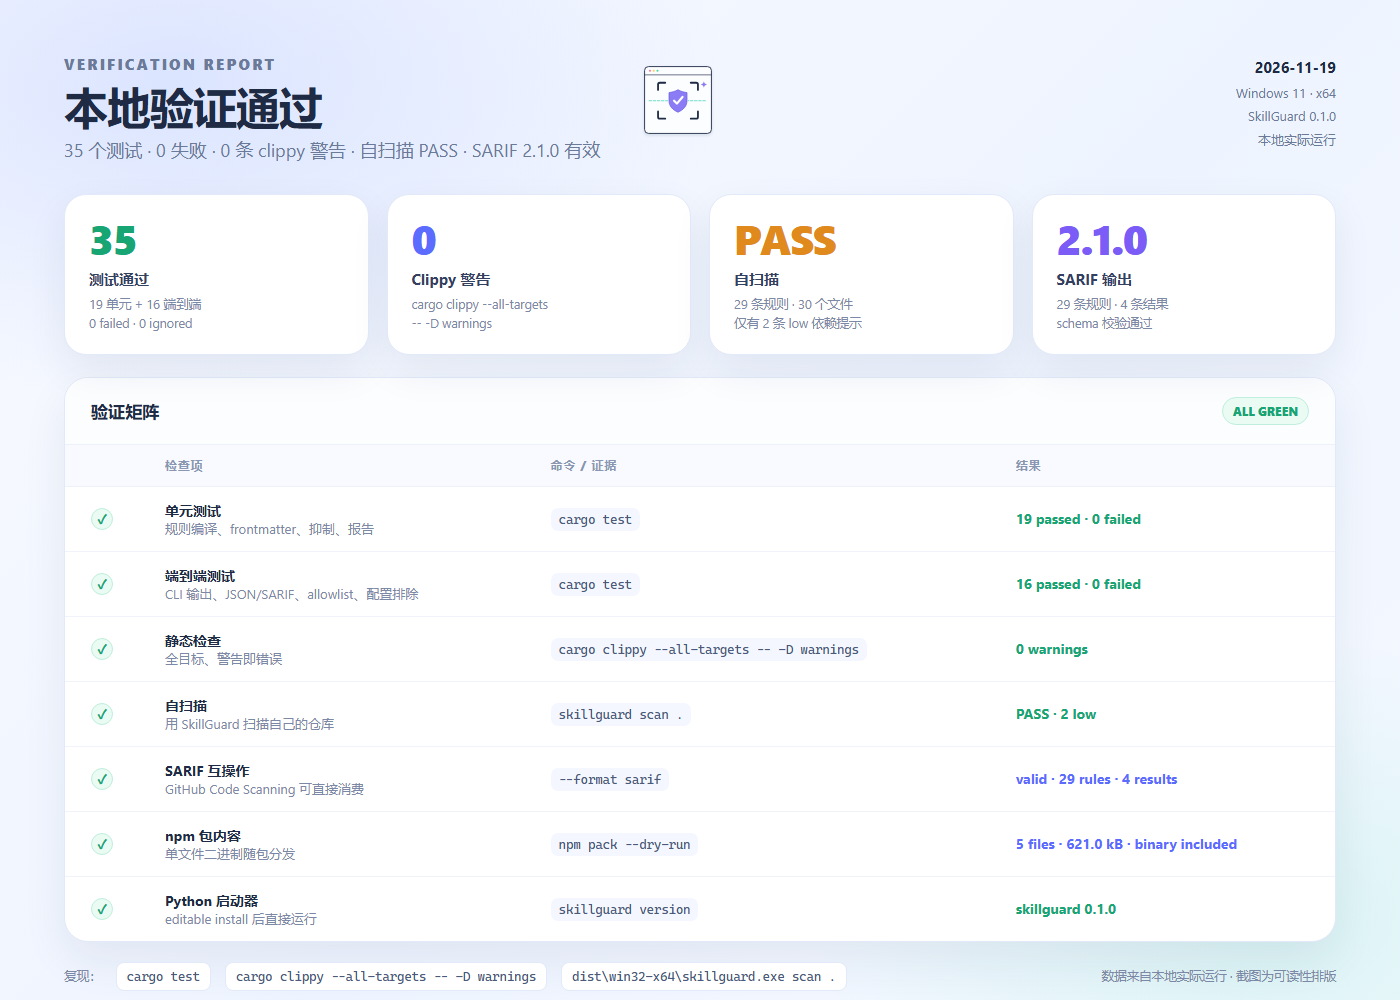
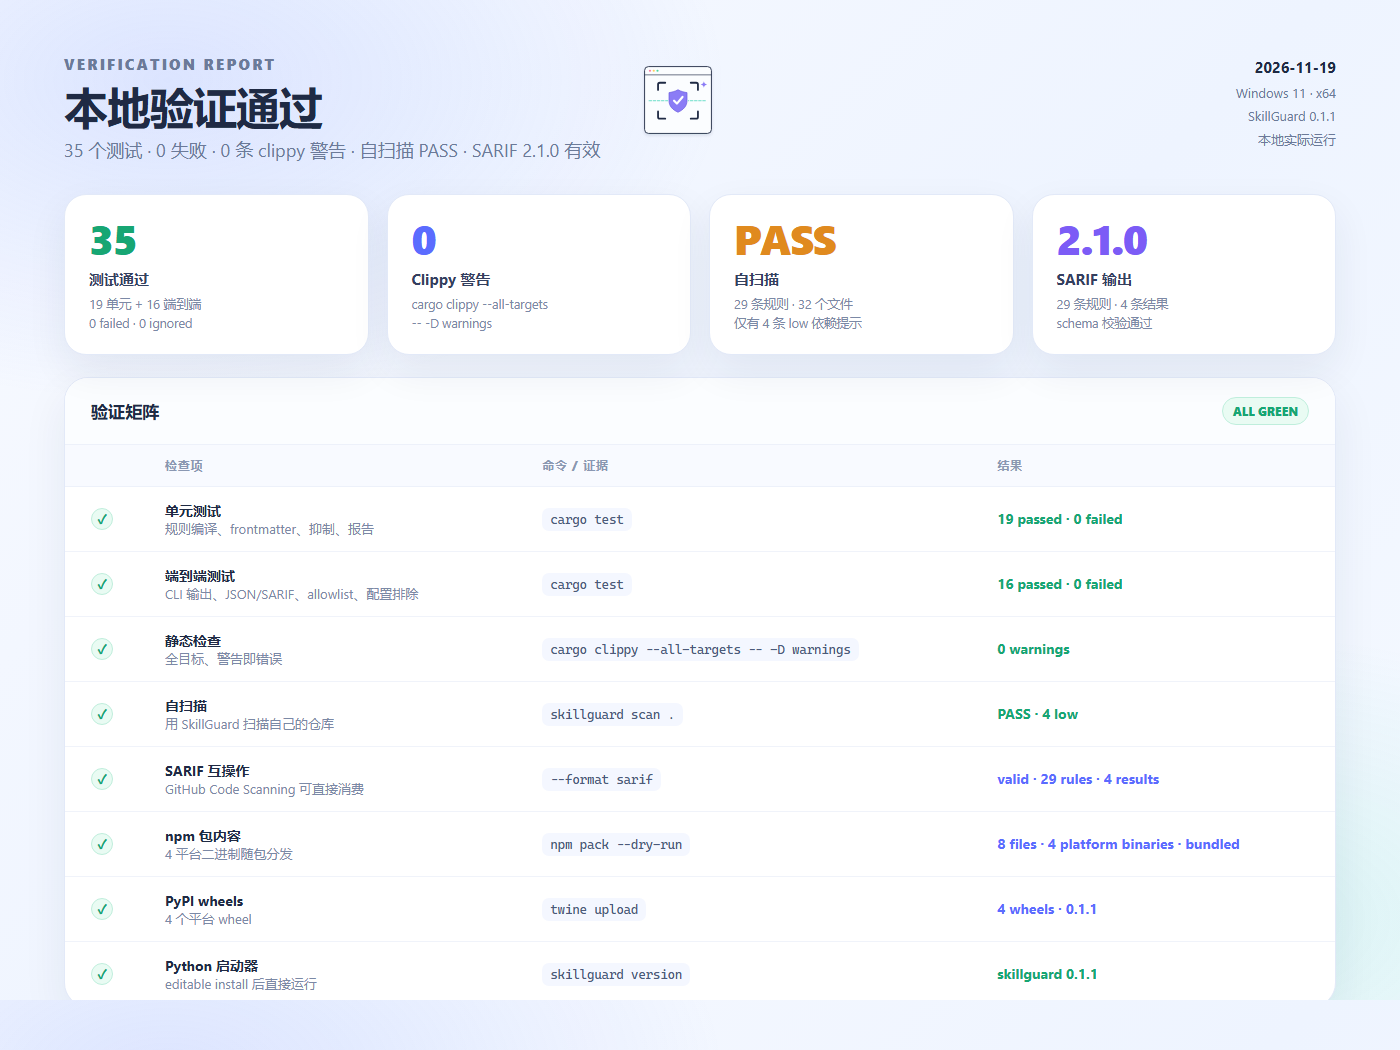
docs: update 0.1.1 multi-platform release docs

diff --git a/README_EN.md b/README_EN.md
@@ -97,7 +97,7 @@ Generate SARIF for GitHub Code Scanning:
 
 ## Installation
 
-> **Current status (0.1.0)**: npm / PyPI 0.1.0 is published, currently as **Windows x64**; Linux/macOS platform packages are pending. The single binary, Node launcher, and Python launcher are fully verified locally; build from source on other platforms.
+> **Current status (0.1.1)**: npm / PyPI 0.1.1 is published with **win32-x64, linux-x64, darwin-x64, and darwin-arm64**; GitHub Release v0.1.1 ships 4 platform binaries and SHA256SUMS. The single binary, Node launcher, and Python launcher are verified.
 
 ### Option 1: single-file binary (recommended)
 
@@ -139,10 +139,10 @@ bash scripts/build.sh
 
 ### Option 2: Node ecosystem
 
-Published (Windows x64):
+Published (multi-platform):
 
 ```bash
-npx --yes seramys-skillguard@0.1.0 scan ./skills --fail-on high
+npx --yes seramys-skillguard@0.1.1 scan ./skills --fail-on high
 ```
 
 Global install:
@@ -164,18 +164,18 @@ node packages/npm/bin/skillguard.js scan ./tests/fixtures/clean-skill --no-color
 </p>
 <p align="center"><sub>The Node launcher is a thin shim; scanning is still done by the same Rust binary.</sub></p>
 
-The npm package stores platform binaries under `vendor/<platform>-<arch>/`. The local `npm pack` verification includes `vendor/win32-x64/skillguard.exe`; for multi-platform publishing, platform sub-packages are recommended, and `packages/npm/lib/resolve.js` already has the resolution logic.
+The npm package stores four platform binaries under `vendor/<platform>-<arch>/`: `win32-x64`, `linux-x64`, `darwin-x64`, and `darwin-arm64`. `packages/npm/lib/resolve.js` selects the current platform.
 
 ### Option 3: Python ecosystem
 
-Published (Windows x64):
+Published (multi-platform):
 
 ```bash
 pip install seramys-skillguard
 skillguard scan ./skills --fail-on high
 ```
 
-> The 0.1.0 wheel is tagged for the platform it was built on; the current local artifact is Windows x64. Build from source or wait for a platform wheel on Linux/macOS.
+> 0.1.1 publishes separate platform wheels for Windows, Linux, and macOS (win_amd64, manylinux_2_17_x86_64, macOS arm64/universal2).
 
 **Repository verification**:
 
@@ -369,7 +369,7 @@ skillguard scan ./tests/fixtures/exfil-skill --format json --json-pretty
 ```json
 {
   "tool": "skillguard",
-  "version": "0.1.0",
+  "version": "0.1.1",
   "root": "/path/to/exfil-skill",
   "summary": {
     "skills": 1,
@@ -686,9 +686,9 @@ jobs:
           sarif_file: skillguard.sarif
 ```
 
-### Use the composite Action (npm package published; currently Windows x64)
+### Use the composite Action (npm package published with 4 platform binaries)
 
-`action.yml` is included and currently runs through `npx seramys-skillguard`. The npm package is published, but it currently bundles only win32-x64:
+`action.yml` is included and currently runs through `npx seramys-skillguard`. The npm package 0.1.1 bundles all four platform binaries:
 
 ```yaml
 - uses: Seramys/skillguard@main
@@ -700,7 +700,7 @@ jobs:
 
 > The composite Action runs the scan and sets the exit code; it does not create a SARIF file. For Code Scanning, use the local-build workflow above, or redirect the SARIF output and upload it yourself.
 
-> The current npm package bundles only the win32-x64 binary; on Linux/macOS runners, use the local-build workflow above.
+> The npm package 0.1.1 includes win32-x64, linux-x64, darwin-x64, and darwin-arm64; the Action can run on ubuntu/windows/macos runners.
 
 ### Generic CI
 
@@ -728,22 +728,23 @@ A non-zero exit code fails the job; SARIF is optional.
 </p>
 <p align="center"><sub>Local verification: 35 tests, 0 clippy warnings, self-scan PASS, valid SARIF 2.1.0.</sub></p>
 
-Environment: Windows 11 x64, SkillGuard 0.1.0, 2026-11-19.
+Environment: Windows 11 x64, SkillGuard 0.1.1, 2026-11-19.
 
 | Check | Command | Result |
 |---|---|---|
 | Unit tests | `cargo test` | 19 passed · 0 failed |
 | Integration tests | `cargo test` | 16 passed · 0 failed |
 | Lints | `cargo clippy --all-targets -- -D warnings` | 0 warnings |
-| Self-scan | `dist\win32-x64\skillguard.exe scan .` | PASS · 2 low |
+| Self-scan | `dist\win32-x64\skillguard.exe scan .` | PASS · 4 low |
 | SARIF | `--format sarif` | valid 2.1.0 · 29 rules · 4 results |
-| npm package | `npm pack --dry-run` | 5 files · 621.0 kB · binary included |
-| Python launcher | `skillguard version` | skillguard 0.1.0 |
+| npm package | `npm pack --dry-run` | 8 files · 4 platform binaries · bundled |
+| PyPI | `twine upload` | 4 platform wheels · 0.1.1 |
+| Python launcher | `skillguard version` | skillguard 0.1.1 |
 
 <p align="center">
-  <img src="docs/assets/screenshots/self-scan.png" width="900" alt="Self-scan: PASS with two low dependency advisories">
+  <img src="docs/assets/screenshots/self-scan.png" width="900" alt="Self-scan: PASS with four low dependency advisories">
 </p>
-<p align="center"><sub>SkillGuard scanning its own repository: PASS with two low unpinned-dependency advisories.</sub></p>
+<p align="center"><sub>SkillGuard scanning its own repository: PASS with four low unpinned-dependency advisories.</sub></p>
 
 <details>
 <summary><b>Expand: raw test output</b></summary>
@@ -826,7 +827,7 @@ Single binary, no runtime, fast startup; linear-time regex is safer for untruste
 <details>
 <summary><b>Why not LLM-based semantic scanning?</b></summary>
 
-LLM analysis is useful as a supplement, but a poor sole gate: non-deterministic, often network/model dependent, and hard to reproduce in CI. 0.1.0 focuses on deterministic, offline, explainable static rules; semantic analysis is on the roadmap as an optional offline mode.
+LLM analysis is useful as a supplement, but a poor sole gate: non-deterministic, often network/model dependent, and hard to reproduce in CI. 0.1.x focuses on deterministic, offline, explainable static rules; semantic analysis is on the roadmap as an optional offline mode.
 
 </details>
 
@@ -847,14 +848,14 @@ Yes, but if there is no `SKILL.md`, the root is treated as one Skill. For large 
 <details>
 <summary><b>Which platforms are supported?</b></summary>
 
-The source builds on Windows / Linux / macOS, and the CI matrix runs tests and release builds on all three. Prebuilt binaries, npm platform packages, and Python wheels depend on the actual Release artifacts. The 0.1.0 local verification was performed on Windows 11 x64.
+The source builds on Windows / Linux / macOS, and the CI matrix runs tests and release builds on all three. Prebuilt binaries, npm platform packages, and Python wheels depend on the actual Release artifacts. The 0.1.1 local verification was performed on Windows 11 x64; Releases ship four platform binaries.
 
 </details>
 
 <details>
 <summary><b>Are npm / PyPI packages published?</b></summary>
 
-0.1.0 is published to npm / PyPI, currently as Windows x64; Linux/macOS platform packages are pending. Use the commands below on Windows; build from source on other platforms.
+0.1.1 is published to npm / PyPI with Windows, Linux, and macOS x64/arm64 support. Use the commands below on those platforms; build from source for other architectures.
 
 </details>
 
@@ -878,7 +879,7 @@ Write a JSON rule pack and load it with `--rules`, or place it in `rules_dir`. S
 
 > Direction, not a promise; priorities will follow real usage feedback.
 
-- **0.2**: rule baselines / diff scanning, more supply-chain rules, a rule test framework, platform packages.
+- **0.2**: rule baselines / diff scanning, more supply-chain rules, a rule test framework, and more runtime/agent integrations.
 - **0.3**: optional offline LLM semantic analysis for rewritten prompt injection.
 - **1.0**: runtime agent gateway, tool-call approvals, central policy and audit console.
 
@@ -927,7 +928,7 @@ Report security issues privately via [SECURITY.md](SECURITY.md); do not open a p
 3. Run `cd packages/npm && npm pack` and confirm `vendor/<platform>/skillguard[.exe]` is included;
 4. Run `npm publish --access public`.
 
-For multi-platform publishing, build one platform sub-package per `os/arch` (for example `@skillguard/cli-win32-x64`) and reference them from the main package via `optionalDependencies`; `packages/npm/lib/resolve.js` already has the resolution logic.
+The current multi-platform release uses one npm package containing all platform binaries plus separate platform wheels for PyPI; split into platform sub-packages only if package size becomes a problem.
 
 ### Python
 

diff --git a/README_JA.md b/README_JA.md
@@ -82,7 +82,7 @@ cargo build --release
 
 ## インストール
 
-> **0.1.0 の現状**：単一バイナリ、Node ランチャー、Python ランチャーはこのリポジトリで検証済みです。npm / PyPI の 0.1.0 は公開済み（Windows x64）。Linux/macOS のプラットフォームパッケージは今後追加されます。
+> **0.1.1 の現状**：npm / PyPI の 0.1.1 は公開済みで、win32-x64 / linux-x64 / darwin-x64 / darwin-arm64 を含みます。GitHub Release v0.1.1 には 4 つのプラットフォームバイナリと SHA256SUMS があります。
 
 ### 1. 単一バイナリ（推奨）
 
@@ -94,10 +94,10 @@ bash scripts/build.sh     # dist/<platform>-<arch>/ にコピー
 
 ### 2. Node
 
-公開済み（Windows x64）：
+公開済み（マルチプラットフォーム）：
 
 ```bash
-npx --yes seramys-skillguard@0.1.0 scan ./skills --fail-on high
+npx --yes seramys-skillguard@0.1.1 scan ./skills --fail-on high
 ```
 
 リポジトリ内での検証：
@@ -206,11 +206,11 @@ skillguard version
   <img src="docs/assets/screenshots/verification-en.png" width="980" alt="ローカル検証レポート">
 </p>
 
-環境：Windows 11 x64、SkillGuard 0.1.0、2026-11-19。
+環境：Windows 11 x64、SkillGuard 0.1.1、2026-11-19。
 
 - テスト：35 件成功（19 ユニット + 16 E2E）
 - Clippy：警告 0
-- 自己スキャン：PASS（low 2 件のみ）
+- 自己スキャン：PASS（low 4 件のみ）
 - SARIF：2.1.0、29 ルール、4 結果
 
 その他の数値と生ログは [English README](README_EN.md#verification) を参照してください。

diff --git a/README_KO.md b/README_KO.md
@@ -82,7 +82,7 @@ cargo build --release
 
 ## 설치
 
-> **0.1.0 현재 상태**: 단일 바이너리, Node 런처, Python 런처는 이 저장소에서 검증되었습니다. npm / PyPI 0.1.0은 공개됨 (Windows x64). Linux/macOS 플랫폼 패키지는 추후 제공됩니다.
+> **0.1.1 현재 상태**: npm / PyPI 0.1.1은 공개되었으며 win32-x64, linux-x64, darwin-x64, darwin-arm64를 포함합니다. GitHub Release v0.1.1에는 4개 플랫폼 바이너리와 SHA256SUMS가 있습니다.
 
 ### 1. 단일 바이너리 (권장)
 
@@ -94,10 +94,10 @@ bash scripts/build.sh     # dist/<platform>-<arch>/ 에 복사
 
 ### 2. Node
 
-공개됨 (Windows x64):
+공개됨 (멀티 플랫폼):
 
 ```bash
-npx --yes seramys-skillguard@0.1.0 scan ./skills --fail-on high
+npx --yes seramys-skillguard@0.1.1 scan ./skills --fail-on high
 ```
 
 저장소 내 검증:
@@ -206,11 +206,11 @@ skillguard version
   <img src="docs/assets/screenshots/verification-en.png" width="980" alt="로컬 검증 보고서">
 </p>
 
-환경: Windows 11 x64, SkillGuard 0.1.0, 2026-11-19.
+환경: Windows 11 x64, SkillGuard 0.1.1, 2026-11-19.
 
 - 테스트: 35개 통과 (19 유닛 + 16 E2E)
 - Clippy: 경고 0
-- 자체 스캔: PASS (low 2건만)
+- 자체 스캔: PASS (low 4건만)
 - SARIF: 2.1.0, 29개 규칙, 4개 결과
 
 자세한 수치와 원본 로그는 [English README](README_EN.md#verification)를 참고하세요.

diff --git a/packages/npm/README.md b/packages/npm/README.md
@@ -3,7 +3,7 @@
 npm launcher for [SkillGuard](https://github.com/Seramys/skillguard), a supply-chain
 security scanner for AI agent skills.
 
-> 0.1.0 currently bundles the Windows x64 binary. On Linux/macOS, build from source or use a platform-specific release asset.
+> 0.1.1 bundles win32-x64, linux-x64, darwin-x64, and darwin-arm64. The launcher picks the binary for the current platform.
 
 ```bash
 npx seramys-skillguard scan ./skills --fail-on high

diff --git a/packages/python/README.md b/packages/python/README.md
@@ -2,7 +2,7 @@
 
 Python entry point for [SkillGuard](https://github.com/Seramys/skillguard).
 
-> The 0.1.0 wheel bundles the native binary for the platform it was built on (validated on Windows x64).
+> 0.1.1 publishes per-platform wheels: win_amd64, manylinux_2_17_x86_64, and macOS arm64/universal2.
 
 ```bash
 pip install seramys-skillguard
